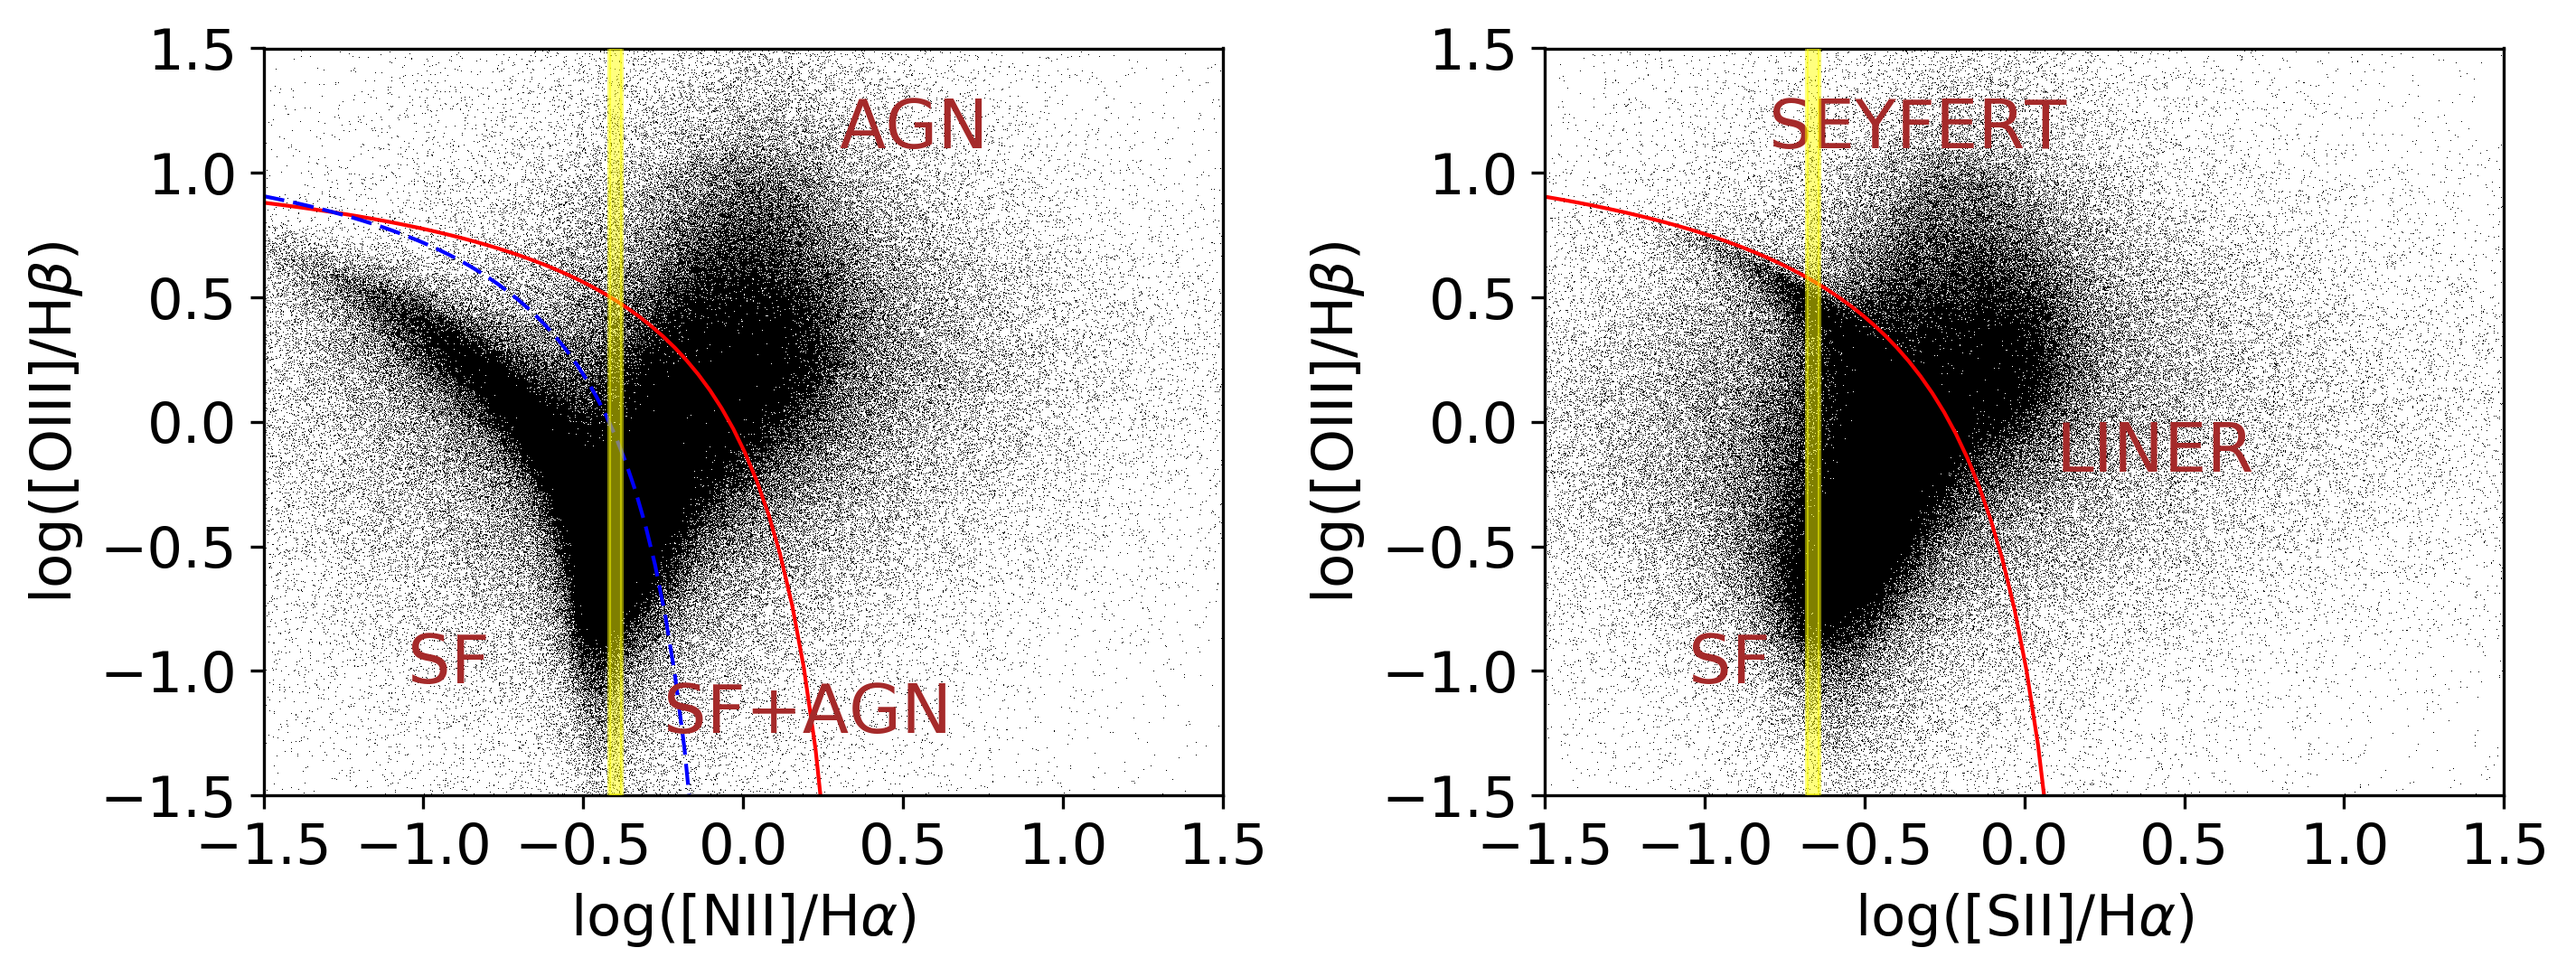
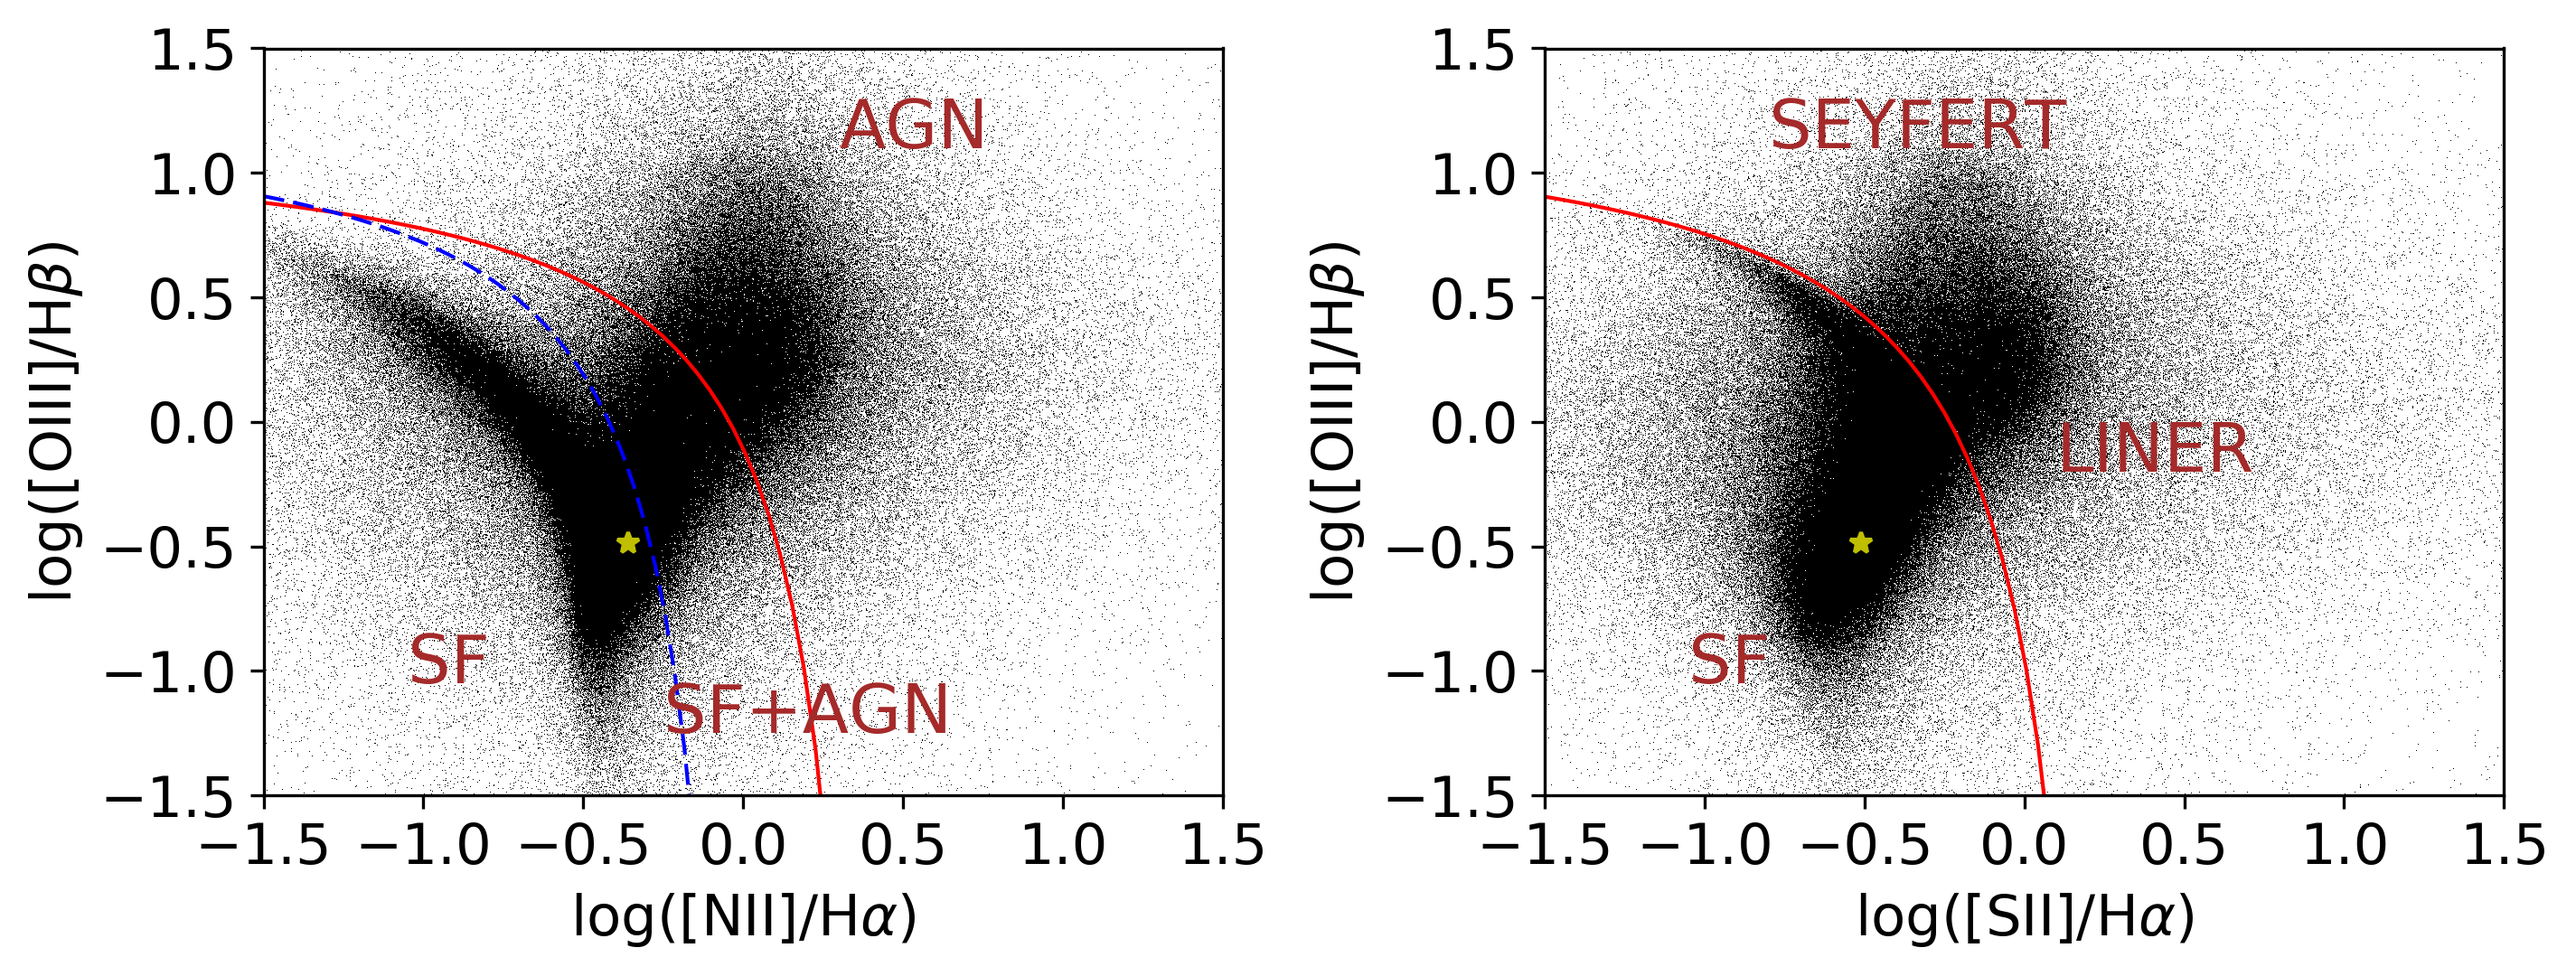
BPT new

Changed region(s): [[0.687, 0.0611, 0.7495, 0.825], [0.2186, 0.0611, 0.2498, 0.825]]

diff --git a/BPT/BPT.py b/BPT/BPT.py
@@ -1,0 +1,150 @@
+#!/usr/bin/python
+# Instructions run the Python program: python -W ignore BPT.py
+# Program to reproduce the BPT diagram using PyFits and FITS format. 
+
+import numpy as np
+import scipy as sc
+import pylab as plt
+import urllib2
+from astropy.io import fits
+
+try: 
+	import pyfits
+
+except ImportError:
+	print '\n PyFITS is no installed, Try from your console one of the following options: \n [1] pip install pyfits \n [2] sudo apt-get install python-pyfits (for Python2) \n [3] sudo apt-get install python3-pyfits (for Python3)'
+
+# Input data 
+
+#FITS = fits.open('http://wwwmpa.mpa-garching.mpg.de/SDSS/DR7/Data/gal_line_dr7_v5_2.fit.gz') # Input data taken from XXX in its original format. 
+# Download the data here: http://wwwmpa.mpa-garching.mpg.de/SDSS/DR7/Data/gal_line_dr7_v5_2.fit.gz
+
+FITS = fits.open('gal_line_dr7_v5_2.fit.gz')  # Read the compress data
+
+head      = FITS[1].data
+infheader = head.columns
+
+# If you need 
+
+
+Hbeta  = FITS[1].data['H_BETA_FLUX']          # Reading the column with Hbeta line 
+OIII   = FITS[1].data['OIII_5007_FLUX']       # Reading the column with OIII line
+Halpha = FITS[1].data['H_ALPHA_FLUX']         # Reading the column with Halpha line
+NII    = FITS[1].data['NII_6584_FLUX']        # Reading the column with NII line
+SII1    = FITS[1].data['SII_6717_FLUX']        # Reading the column with SII line
+SII2    = FITS[1].data['SII_6731_FLUX']        # Reading the column with SII line
+
+
+#plt.subplot(1,2,1)
+#f      = plt.figure(1)
+f      = plt.figure(1,figsize=(9.6,3.7),dpi=300)
+xx     = np.log10(  NII / Halpha )      # log10(NII/Halpha)
+yy     = np.log10( OIII /  Hbeta )      # log10(OIII/Hbeta)
+
+ax                 = f.add_subplot(1,2,1)
+bins_X, bins_Y     =  100., 100.   # Define the number of bins in X- and Y- axis
+Xmin, Xmax         = -1.5, 1.2   # Define the maximum and minimum limit in X-axis
+Ymin, Ymax         = -1.5, 1.5   # Define the maximum and minimum limit in Y-axis
+Nlevels            = 6           # Define the number of levels of isocontour
+
+
+#hist,xedges,yedges = np.histogram2d(xx,yy,bins=(bins_X, bins_Y),range=[[Xmin,Xmax],[Ymin,Ymax]])
+#masked             = np.ma.masked_where(hist==0, hist)
+#plotting           = ax.imshow(masked.T,extent=[Xmin, Xmax, Ymin, Ymax],interpolation='nearest',origin='lower',cmap=plt.cm.gray_r)
+#levels             = np.linspace(0., np.log10(masked.max()), Nlevels)[1:]
+#CS                 = ax.contour(np.log10(masked.T), levels, colors='k',linewidths=1,extent=[Xmin,Xmax,Ymin,Ymax])
+
+plt.plot(xx,yy,markerfacecolor='k',markeredgecolor='k',marker=',',linestyle="None")
+
+
+# Kewley+01 ------------------------------------------
+X = np.linspace(-1.5,0.3)
+Y = (0.61/( X  - 0.47  )) + 1.19
+
+# Schawinski+07 --------------------------------------
+X3 = np.linspace(-0.180,1.5)
+Y3 = 1.05*X3 + 0.45
+
+# Kauffmann+03 ---------------------------------------
+Xk = np.linspace(-1.5,0.)
+Yk = 0.61/(Xk -0.05) + 1.3
+
+# Regions --------------------------------------------
+ax.plot(X,   Y, '-' , color='red', lw=1, label='Kewley+01'    ) # Kewley+01
+#ax.plot(X3, Y3, '-', color='blue', lw=0.5, label='Schawinski+07') # Schawinski+07
+ax.plot(Xk, Yk, '--', color='blue', lw=1, label='Kauffmann+03' ) # Kauffmann+03
+
+
+plt.text(-1.05, -1.05,'SF',color='brown',size=18)
+plt.text(-0.25, -1.25,'SF+AGN',color='brown',size=18)
+plt.text(0.3, 1.1,'AGN',color='brown',size=18)
+plt.errorbar(-0.36,-0.486,yerr=0.03,xerr=0.005,ecolor='yellow')
+plt.plot(-0.36,-0.486,'y*')
+# Axi name here ...
+Nsize = 15
+ax.set_xlabel(r'log([NII]/H$\alpha$)',fontsize=Nsize)
+ax.set_ylabel(r'log([OIII]/H$\beta$)',fontsize=Nsize)
+ax.tick_params(labelsize = Nsize)
+ax.set_xlim(Xmin, Xmax)
+ax.set_ylim(Ymin, Ymax)
+#ax.fill([-0.42,-0.42,-0.38,-0.38],[Ymin,Ymax,Ymax,Ymin],alpha=0.5,color="yellow",zorder=5)
+ax.set_xticks([-1.5,-1,-0.5,0,0.5,1,1.5])
+#ax.get_xminorticklabels([-1.4,-1.3,-1.2,-1.1,-0.9,-0.8,-0.7,-0.6,-0.4,-0.3,-0.2,-0.1,0.1,0.2,0.3,0.4,0.6,0.7,0.8,0.9,1.1])
+#ax.get_yminorticklabels([-1.4,-1.3,-1.2,-1.1,-0.9,-0.8,-0.7,-0.6,-0.4,-0.3,-0.2,-0.1,0.1,0.2,0.3,0.4,0.6,0.7,0.8,0.9,1.1,1.2,1.3,1.4])
+
+
+SII1    = FITS[1].data['SII_6717_FLUX']        # Reading the column with SII line
+SII2    = FITS[1].data['SII_6731_FLUX']        # Reading the column with SII line
+
+
+#f      = plt.figure(1)
+#f      = plt.figure(1,figsize=(10,10),dpi=600)
+xx     = np.log10(  (SII1+SII2) / Halpha )      # log10(NII/Halpha)
+yy     = np.log10( OIII /  Hbeta )      # log10(OIII/Hbeta)
+
+ax                 = f.add_subplot(1,2,2)
+bins_X, bins_Y     =  100., 100.   # Define the number of bins in X- and Y- axis
+Xmin, Xmax         = -1.5, 1.2   # Define the maximum and minimum limit in X-axis
+Ymin, Ymax         = -1.5, 1.5   # Define the maximum and minimum limit in Y-axis
+
+
+
+#hist,xedges,yedges = np.histogram2d(xx,yy,bins=(bins_X, bins_Y),range=[[Xmin,Xmax],[Ymin,Ymax]])
+#masked             = np.ma.masked_where(hist==0, hist)
+#plotting           = ax.imshow(masked.T,extent=[Xmin, Xmax, Ymin, Ymax],interpolation='nearest',origin='lower',cmap=plt.cm.gray_r)
+
+
+plt.plot(xx,yy,markerfacecolor='k',markeredgecolor='k',marker=',',linestyle="None")
+
+
+X = np.linspace(-1.5,0.3)
+Y = (0.72/( X  - 0.32  )) + 1.30
+
+
+# Regions --------------------------------------------
+ax.plot(X,   Y, '-' , color='red', lw=1, label='Kewley+01'    ) # Kewley+01
+#ax.plot(X3, Y3, '-', color='blue', lw=0.5, label='Schawinski+07') # Schawinski+07
+
+plt.text(-1.05, -1.05,'SF',color='brown',size=18)
+plt.text(0.1, -0.2,'LINER',color='brown',size=18)
+plt.text(-0.8, 1.1,'SEYFERT',color='brown',size=18)
+plt.errorbar(-0.512,-0.486,yerr=0.03,xerr=0.005,ecolor='yellow')
+plt.plot(-0.512,-0.486,'y*')
+# Axi name here ...
+#Nsize = 15
+ax.set_xlabel(r'log([SII]/H$\alpha$)',fontsize=Nsize)
+ax.set_ylabel(r'log([OIII]/H$\beta$)',fontsize=Nsize)
+ax.tick_params(labelsize = Nsize)
+ax.set_ylim(Ymin, Ymax)
+ax.set_xlim(Xmin, Xmax)
+#ax.fill([-0.68,-0.68,-0.64,-0.64],[Ymin,Ymax,Ymax,Ymin],alpha=0.5,color="yellow",zorder=5)
+ax.set_xticks([-1.5,-1,-0.5,0,0.5,1,1.5])
+#ax.get_xminorticklabels([-1.4,-1.3,-1.2,-1.1,-0.9,-0.8,-0.7,-0.6,-0.4,-0.3,-0.2,-0.1,0.1,0.2,0.3,0.4,0.6,0.7,0.8,0.9,1.1])
+#ax.get_yminorticklabels([-1.4,-1.3,-1.2,-1.1,-0.9,-0.8,-0.7,-0.6,-0.4,-0.3,-0.2,-0.1,0.1,0.2,0.3,0.4,0.6,0.7,0.8,0.9,1.1,1.2,1.3,1.4])
+
+
+plt.tight_layout()
+
+
+plt.savefig('BPT.png',bbox_inches='tight')
+#plt.show()
